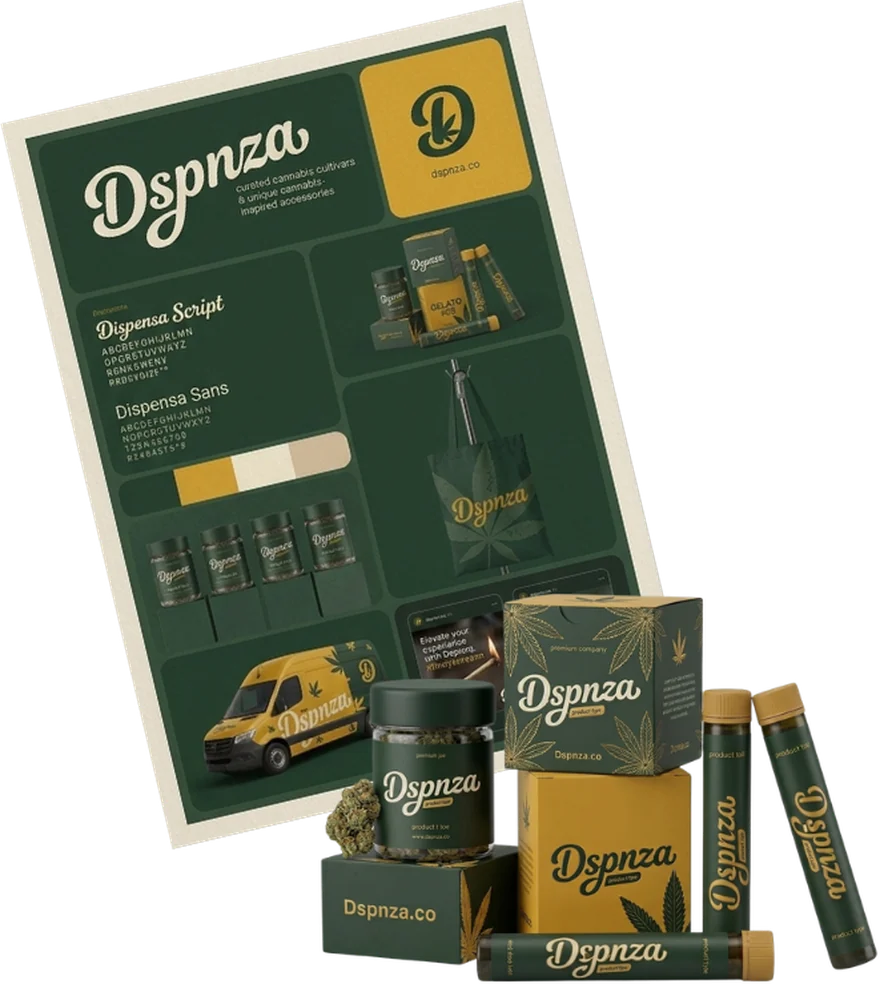
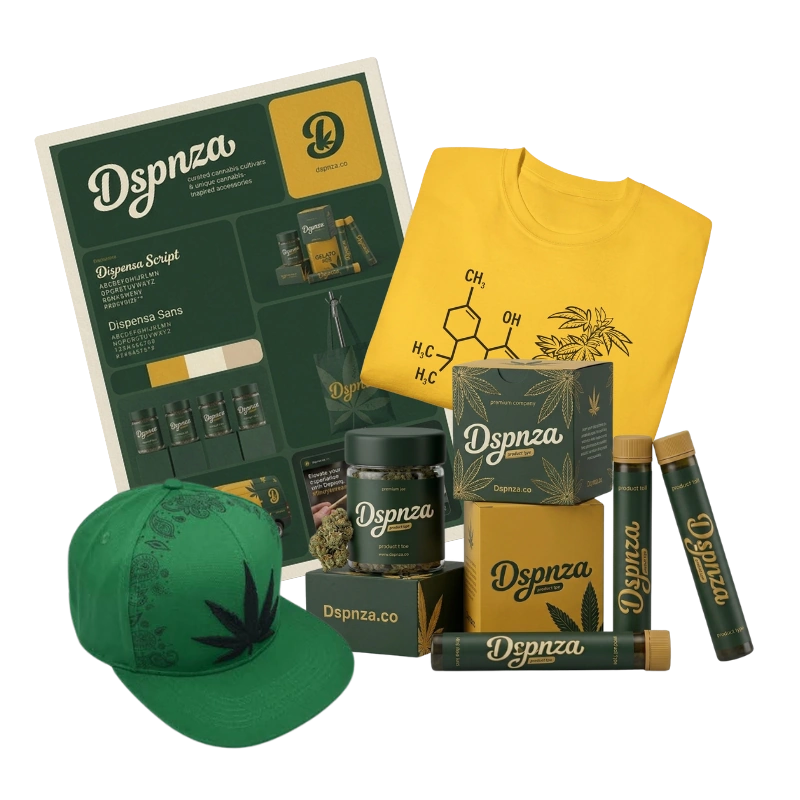
Brand board: swap in the owner's fuller composite
The head-collage art now carries the apparel and cap alongside the board and
packaging. Owner-supplied cut-out, not derived here.

Alpha is genuinely feathered - 1.69% of pixels carry partial alpha - and webp q95
preserves that figure EXACTLY (1.69% in, 1.69% out, PSNR 42.0 dB), measured rather
than assumed. Lossless was 402K for no visible gain; q90 was 84K but fell to
40.8 dB, under the 42 dB bar this pass has held to, so q95 at 114K was chosen.
That is ~20K heavier than the 96K it replaces - the only regression in the
optimisation work, and a deliberate one: it buys a materially richer image and
the edge quality is the whole point of a cut-out on a dark field.

Dimensions moved with the art, 880x984 -> 800x800. The ratio change from 0.894 to
1.000 is real, so the width/height attributes had to move or the reserved box
would have been wrong. Safe because .tc-head__media img is width:100%/height:auto
with NO aspect-ratio and NO object-fit, so the square ratio is honoured rather
than cropped - checked in the stylesheet before swapping, not after.

Verified in-browser at three widths: natural, attribute and rendered ratios all
agree at 1.000; 472px at 1440, 720px at 768, 327px at 375; not broken, no 404s,
no console errors, no horizontal overflow.

The comment above the figure described the OLD art and its 49%-transparent trim.
Rewritten rather than left to rot.

Note for the owner: at 2x DPR the desktop slot needs ~944px across and this source
[…]

diff --git a/dispenza/pages/branding-graphic-design.html b/dispenza/pages/branding-graphic-design.html
@@ -230,16 +230,19 @@
             <p class="tc-head__lede" data-reveal>We understand the importance of creating a cohesive and impactful brand presence, and our talented team of designers is here to assist you every step of the way.</p>
           </div>
 
-            <!-- THE BRAND BOARD, beside the title. Same treatment as the phone on
-                 performance-marketing: a genuine RGBA cutout (verified 49% transparent
-                 inside its trim, transparent corners - unlike the hero phone's source,
-                 which arrived on an opaque white plate) on the existing [data-parallax]
-                 engine, borderless, with a drop-shadow that follows the alpha rather
-                 than a box-shadow that would draw a rectangle behind it. -->
+            <!-- THE BRAND BOARD, beside the title. Owner-supplied art, REPLACED 2026-08-21:
+                 the board now carries the apparel and cap alongside the packaging. Still a
+                 genuine RGBA cutout with a feathered edge - 1.69% of its pixels carry partial
+                 alpha, and webp q95 preserves that figure EXACTLY (measured, not assumed) -
+                 riding the existing [data-parallax] engine, borderless, with a drop-shadow
+                 that follows the alpha rather than a box-shadow that would draw a rectangle
+                 behind it. Dimensions moved 880x984 -> 800x800 with the art; the CSS sizes it
+                 width:100%/height:auto with no aspect-ratio or object-fit, so the new square
+                 ratio is honoured rather than cropped. -->
             <div class="tc-head__media tc-head__media--wide tc-head__media--float tc-lift" data-parallax>
               <img src="../assets/in-pages/brand-package-board.webp"
                    alt="Dispenza brand board with dispensary logos, packaging and printed collateral"
-                   width="880" height="984" loading="lazy" decoding="async">
+                   width="800" height="800" loading="lazy" decoding="async">
             </div>
         </div>
         <hr class="tc-head__seal" data-reveal>
